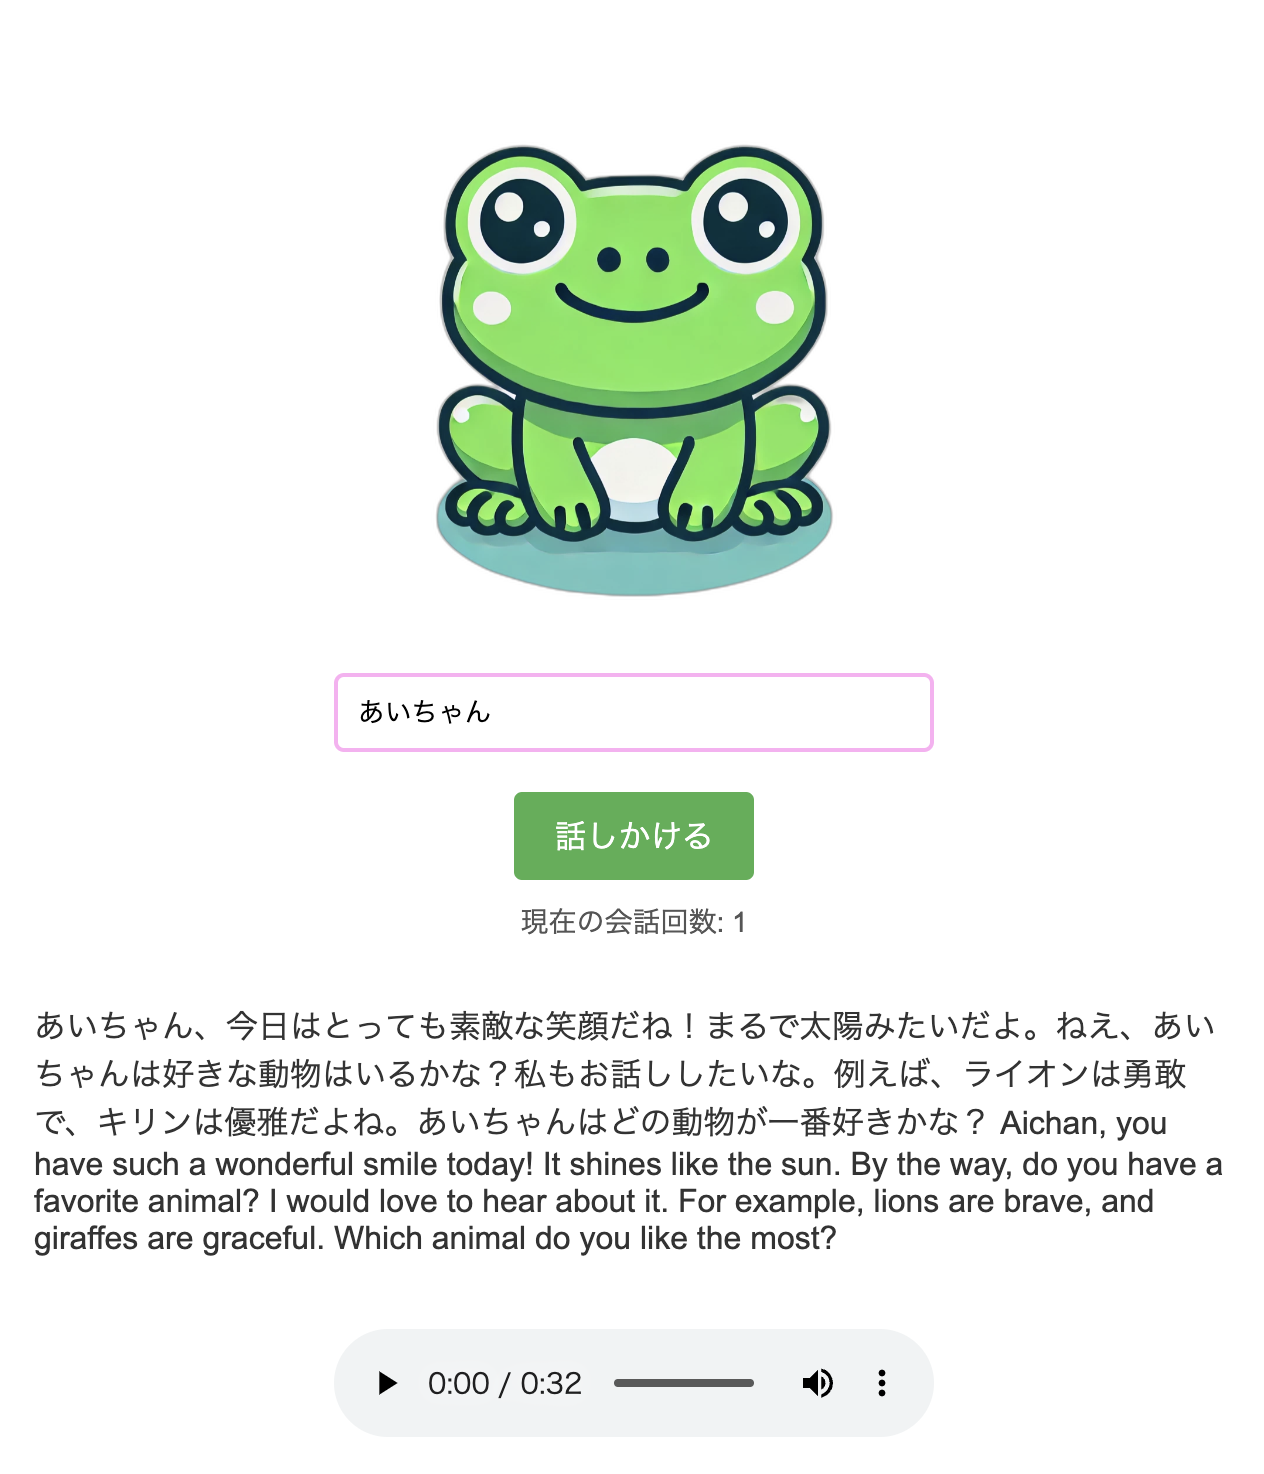
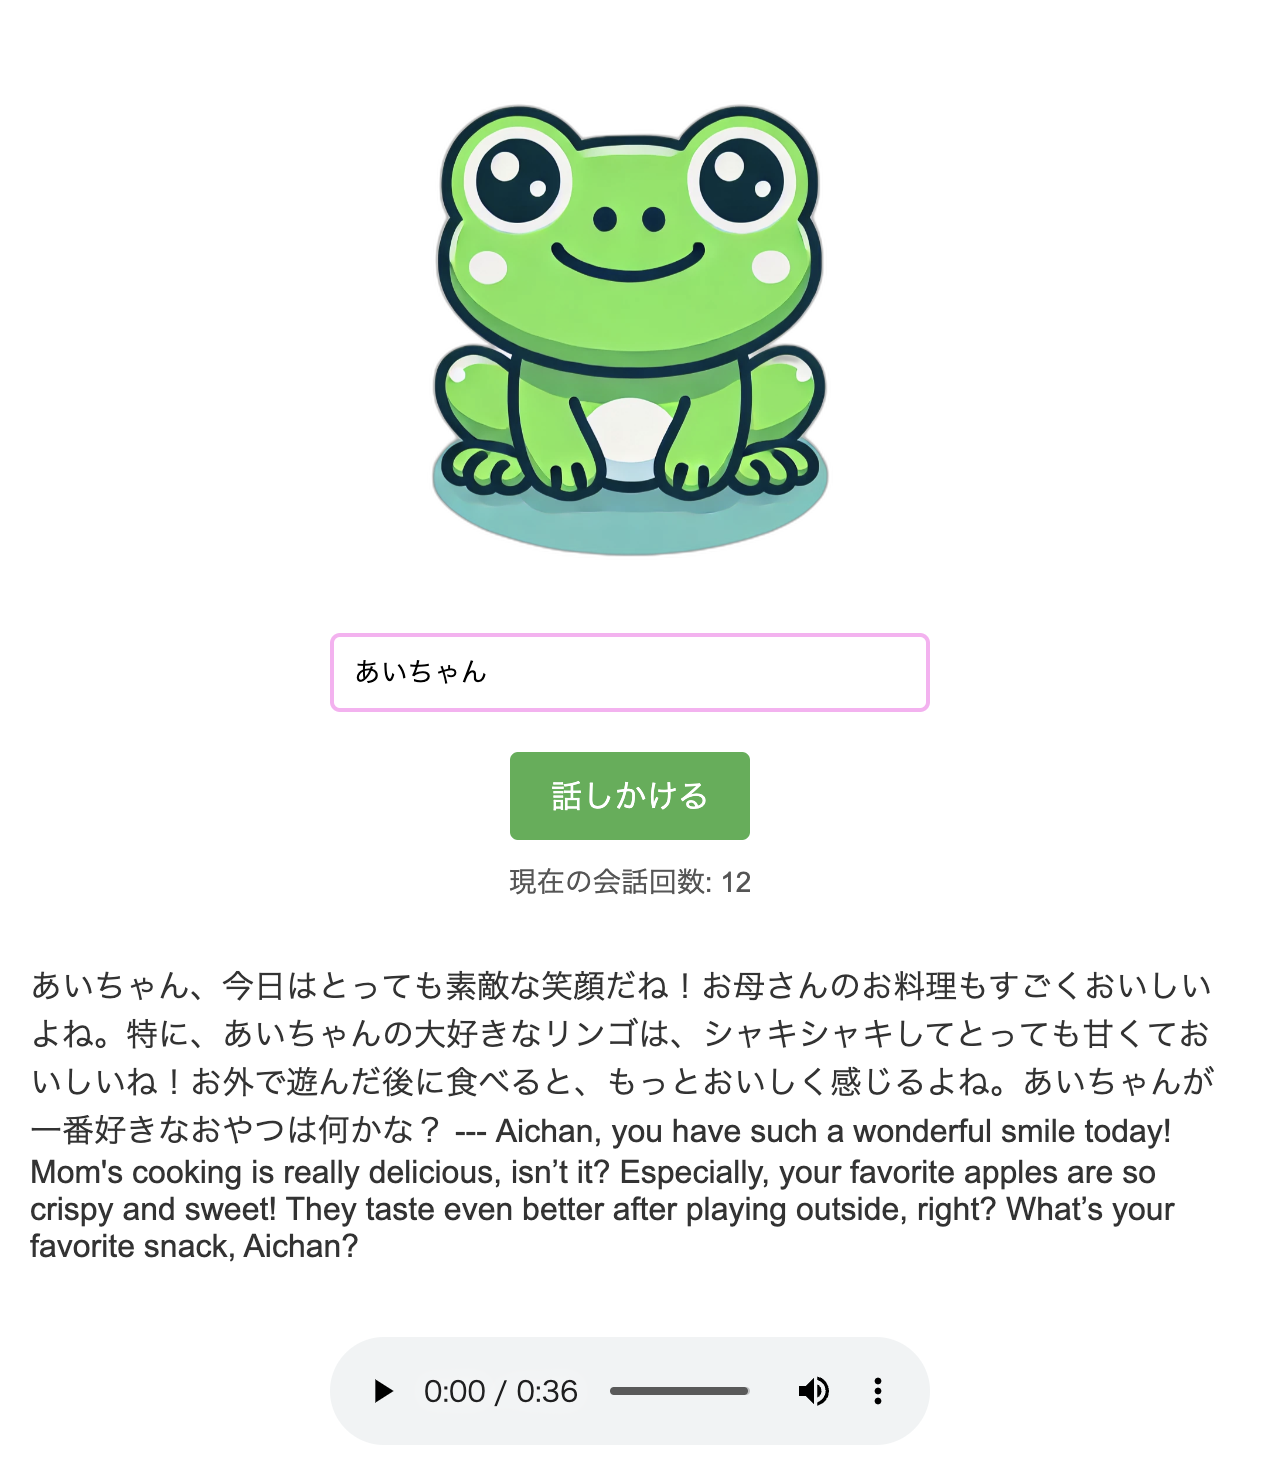
conversation count restriction added

diff --git a/src/app/chat/chatapp.tsx b/src/app/chat/chatapp.tsx
@@ -3,6 +3,7 @@
 import React, { useState } from 'react';
 import styles from '../../styles/chatapp.module.css';
 import OpenAI from 'openai';
+import { UndoIcon } from 'lucide-react';
 
 const ChatApp: React.FC = () => {
   const [nickname, setNickname] = useState<string>('');
@@ -82,7 +83,16 @@ const ChatApp: React.FC = () => {
 					value={nickname}
 					onChange={handleChange}
 					placeholder="子供の愛称を入力してください"/>
-				<button className={styles.button} onClick={handleSubmit}>
+				<button className={`${styles.button} ${loading ? styles.blinking : ''}` }
+					onClick={() => {
+						if (conversationCount === undefined || conversationCount <= 50) {
+							handleSubmit();
+						} else {
+							alert('会話回数が上限に達しました。');
+						}
+					}}
+					disabled={conversationCount !== undefined && conversationCount > 50}
+				>
 				{loading ? '生成中...' : '話しかける'}
 				</button>
 

diff --git a/src/app/api/chat/route.ts b/src/app/api/chat/route.ts
@@ -18,7 +18,8 @@ export async function POST(req: NextRequest) {
         { role: 'system', content: 'You are a helpful assistant.' },
         {
           role: 'user',
-          content: `まだお話できない赤ちゃんに対して、褒める言葉、${theme}についてのお話、質問を混ぜて7文程度で楽しく話しかけてください。
+          content: `まだお話できない赤ちゃんに対して、褒める言葉、${theme}についてのお話を混ぜて5文程度で楽しく話しかけてください。
+					最後に${theme}に関する質問も１つしてください。
 		  			子供の愛称は「${nickname}」です。
                     日本語のテキストが完成したら、同じ内容を英語でも作成してください。
                     「わかりました」や「もちろんです」などはいりません。`,

diff --git a/src/app/page.tsx b/src/app/page.tsx
@@ -53,7 +53,7 @@ export default function Home() {
 				<div className={styles.devContainer}>
 					<h2 className={styles.h2}>今後の展望</h2>
 					<p>
-						AIは育児領域で様々な価値を提供できる可能性を秘めています。<br/><br/>
+						初めての開発を通じて、AIは育児領域で様々な価値を提供できる可能性があると感じています。<br/><br/>
 						例えば数年後には子供のお気に入りのおもちゃにLLMが搭載され、子供と話してくれるようになるのではないでしょうか。<br/>
 						<br/>
 						Baby Talk AIを体験していただき、感想や要望がありましたら是非以下のメールアドレスにご連絡ください。<br/><br/>

diff --git a/src/styles/chatapp.module.css b/src/styles/chatapp.module.css
@@ -84,6 +84,16 @@
     background-color: #45a049;
 }
 
+@keyframes blink {
+	50% {
+	  opacity: 0.5;
+	}
+  }
+  
+.blinking {
+	animation: blink 2s infinite;
+  }
+
 .conversationCount {
     margin-top: 10px;
     font-size: 14px;

diff --git a/src/app/api/count/route.ts b/src/app/api/count/route.ts
@@ -2,7 +2,6 @@ import { createClient } from "@/utils/supabase/server";
 import { NextResponse } from "next/server";
 
 export async function POST () {
-	console.log("count api called")
 
 	const supabase = await createClient();
 
